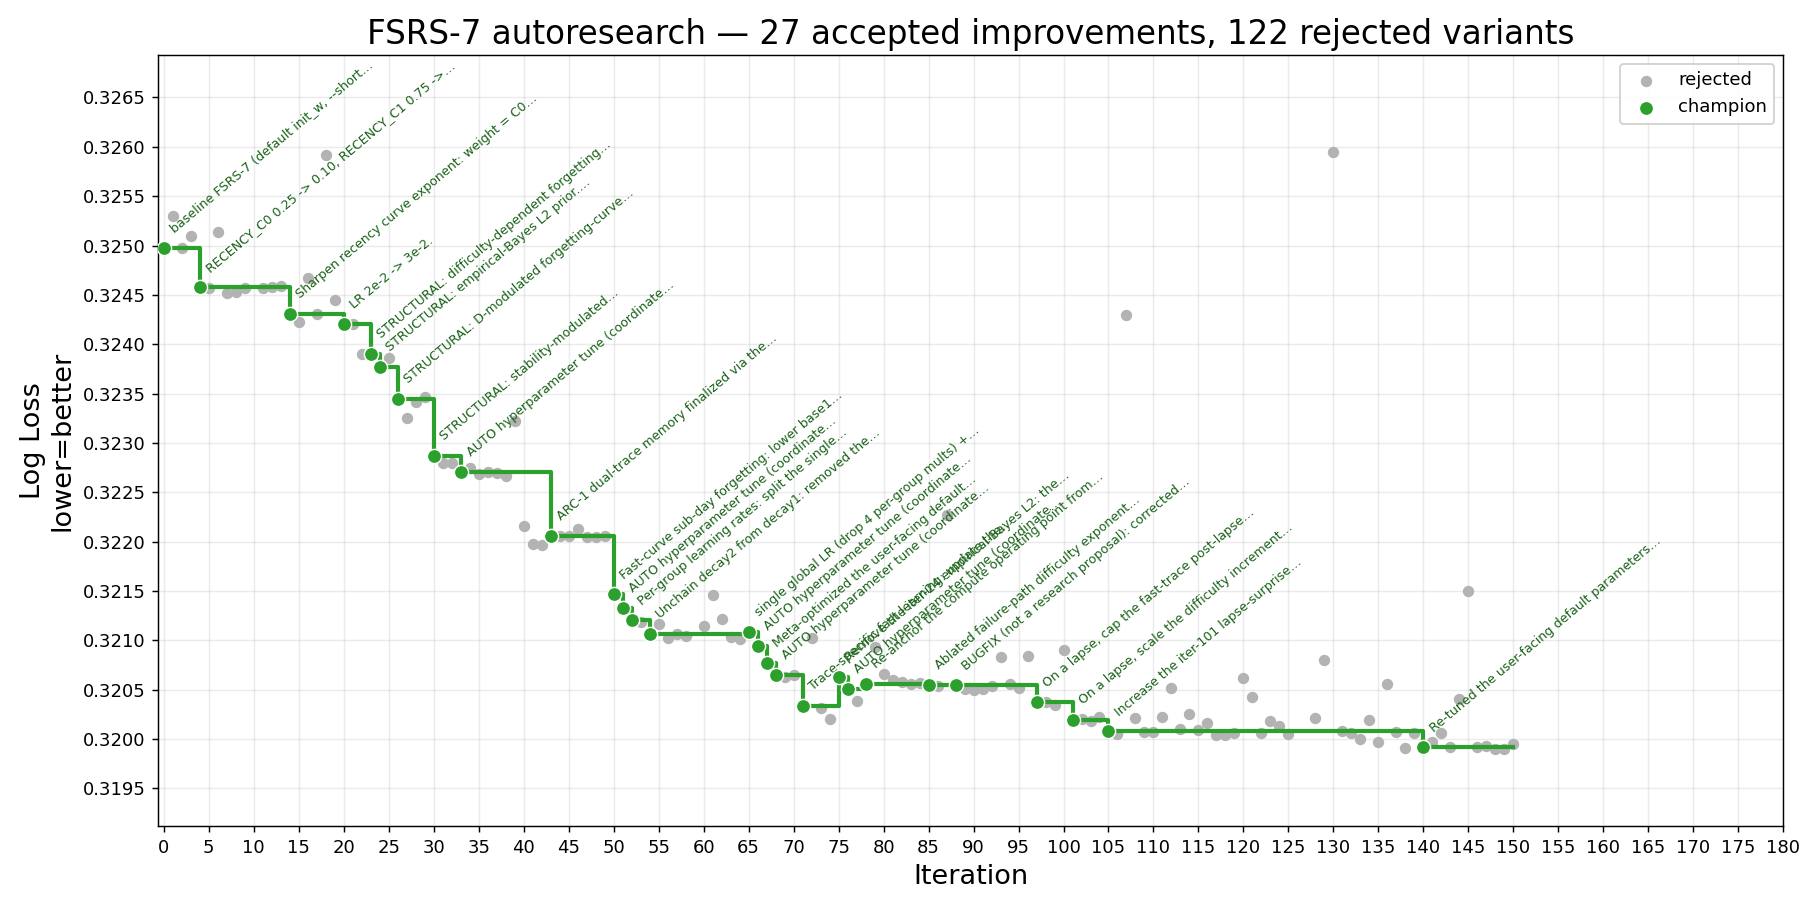
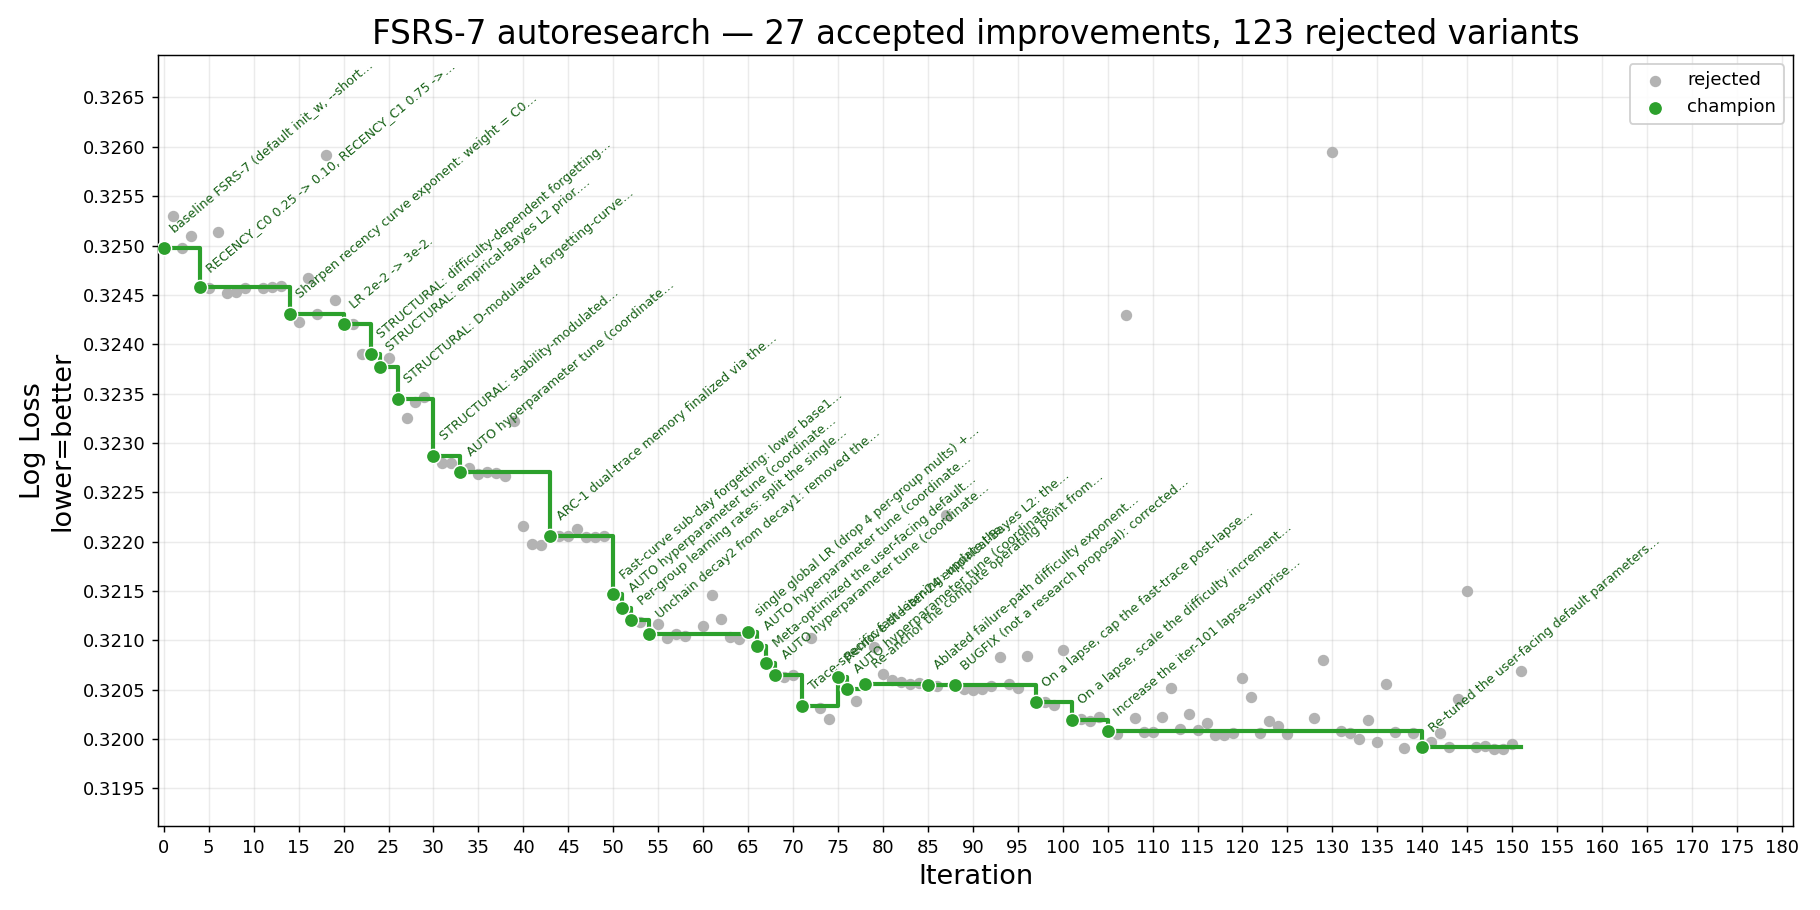
@ iter-151 (rejected): early-review D-step boost
delta_d *= 1 + 1.0*exp(-s_long/7) (more D-update gain on fresh cards).

by_user 0.31991476 -> 0.32068700 (worse by 7.72e-4) -- big reject.
Hypothesis backwards: amplifying early ratings injects noise (a single
early Again is a poor difficulty signal), broad degradation with Again
+2.43e-3 dominant. D-update gain is NOT under-damped on fresh cards;
champion step already well-calibrated. Closes the variance/convergence axis.
Reverted to iter-140 champion.

@

diff --git a/result/history.md b/result/history.md
@@ -1,6 +1,6 @@
 # FSRS-7 autoresearch — iteration history
 
-_150 record(s). Generated from `history.jsonl` — do not edit by hand._
+_151 record(s). Generated from `history.jsonl` — do not edit by hand._
 
 | # | Time (UTC) | Thresh. | LL before | LL after | Δ LL | Cx before | Cx after | Δ Cx % | Status | Summary |
 |--:|---|---:|---:|---:|---:|---:|---:|---:|---|---|
@@ -154,3 +154,4 @@ _150 record(s). Generated from `history.jsonl` — do not edit by hand._
 | 148 | 2026-06-06T12:47:34 | 0.0001 | 0.31991 | 0.31990 | +0.00002 | 16,932 | 16,937 | +0.03% | rejected | Raise the lapse-surprise coefficient past its positivity cap: delta_d *= max(0.1, 1 + 1.5*(retention-0.9)) (was 1 + 1.0*(retention-0.9)). |
 | 149 | 2026-06-06T13:21:41 | 0.0001 | 0.31991 | 0.31990 | +0.00002 | 16,932 | 16,932 | +0.00% | rejected | AUTO hyperparameter tune (coordinate descent over training hyperparameters (LR/betas/L2/recency C0+EXP)): best candidate BETA1 0.55->0.7, BETA2 0.9913->0.9869. |
 | 150 | 2026-06-06T13:57:46 | 0.0001 | 0.31991 | 0.31995 | -0.00004 | 16,932 | 16,963 | +0.18% | rejected | Make difficulty mean-reversion rate R-dependent: 0.01*max(0.1, 1+1.0*(retention-0.9)) instead of fixed 0.01. |
+| 151 | 2026-06-06T14:03:14 | 0.0001 | 0.31991 | 0.32069 | -0.00077 | 16,932 | 16,948 | +0.09% | rejected | Add early-review D-step boost: delta_d *= 1 + 1.0*exp(-s_long/7) (fresh cards get more D-update gain, decays as card matures). |
